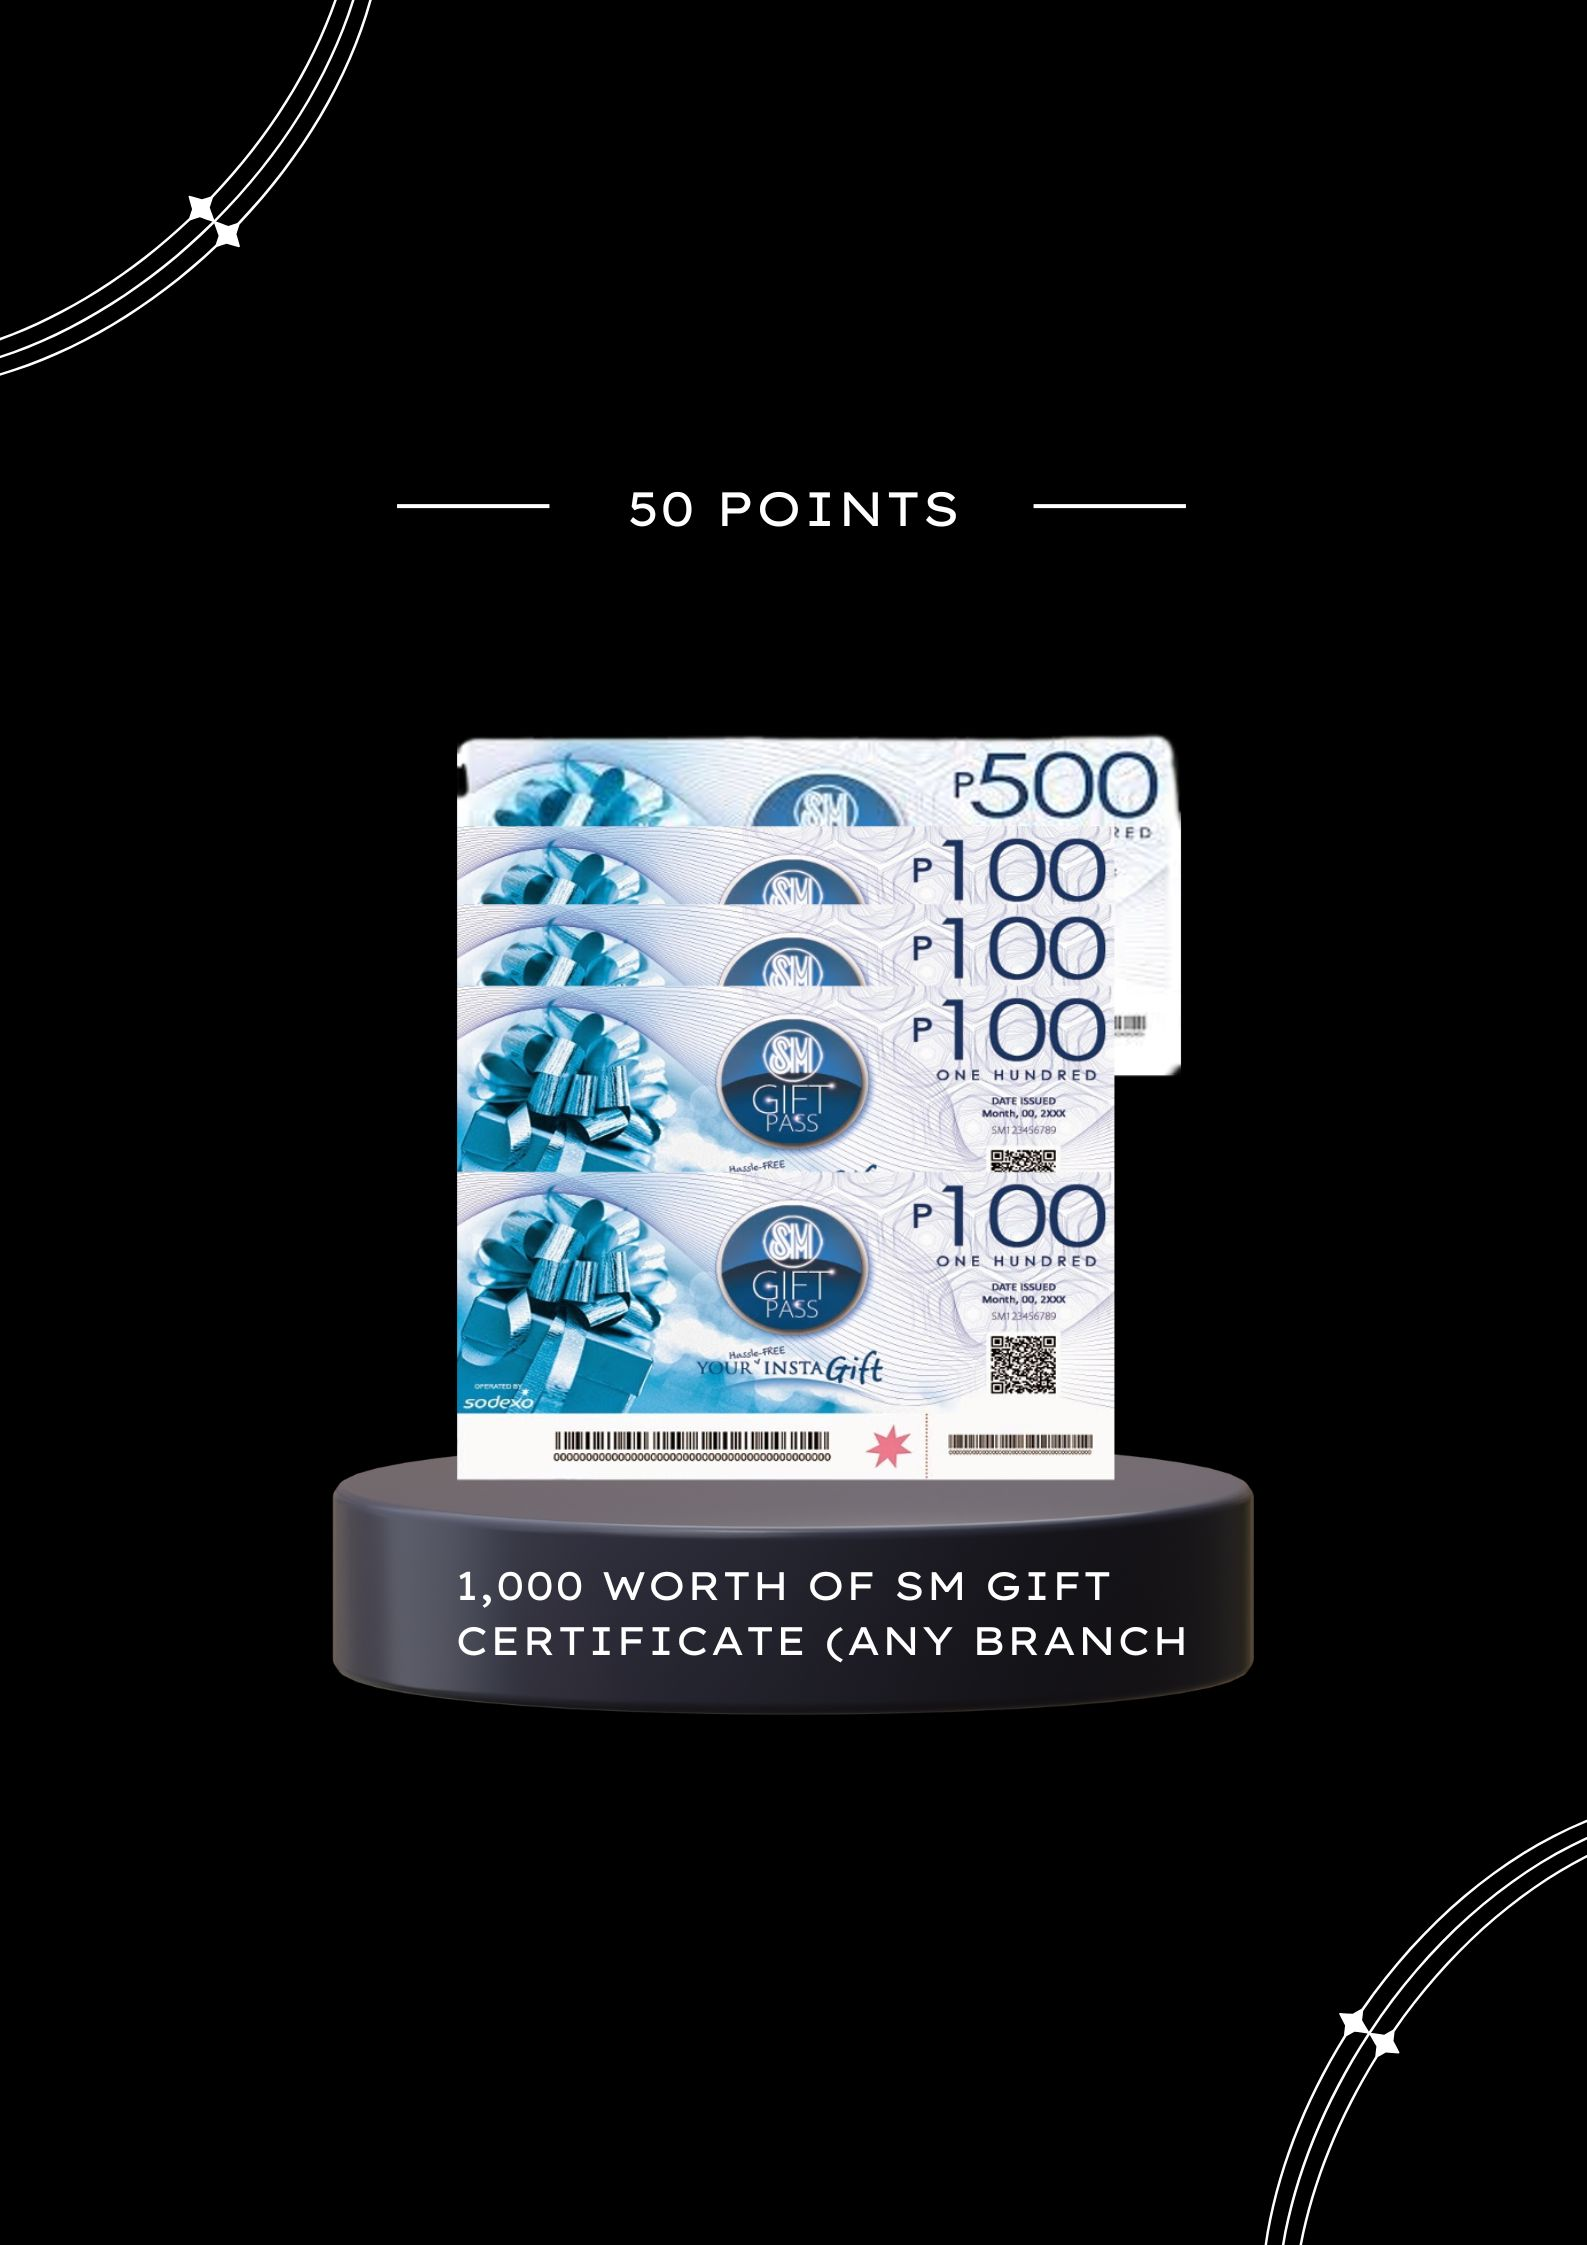
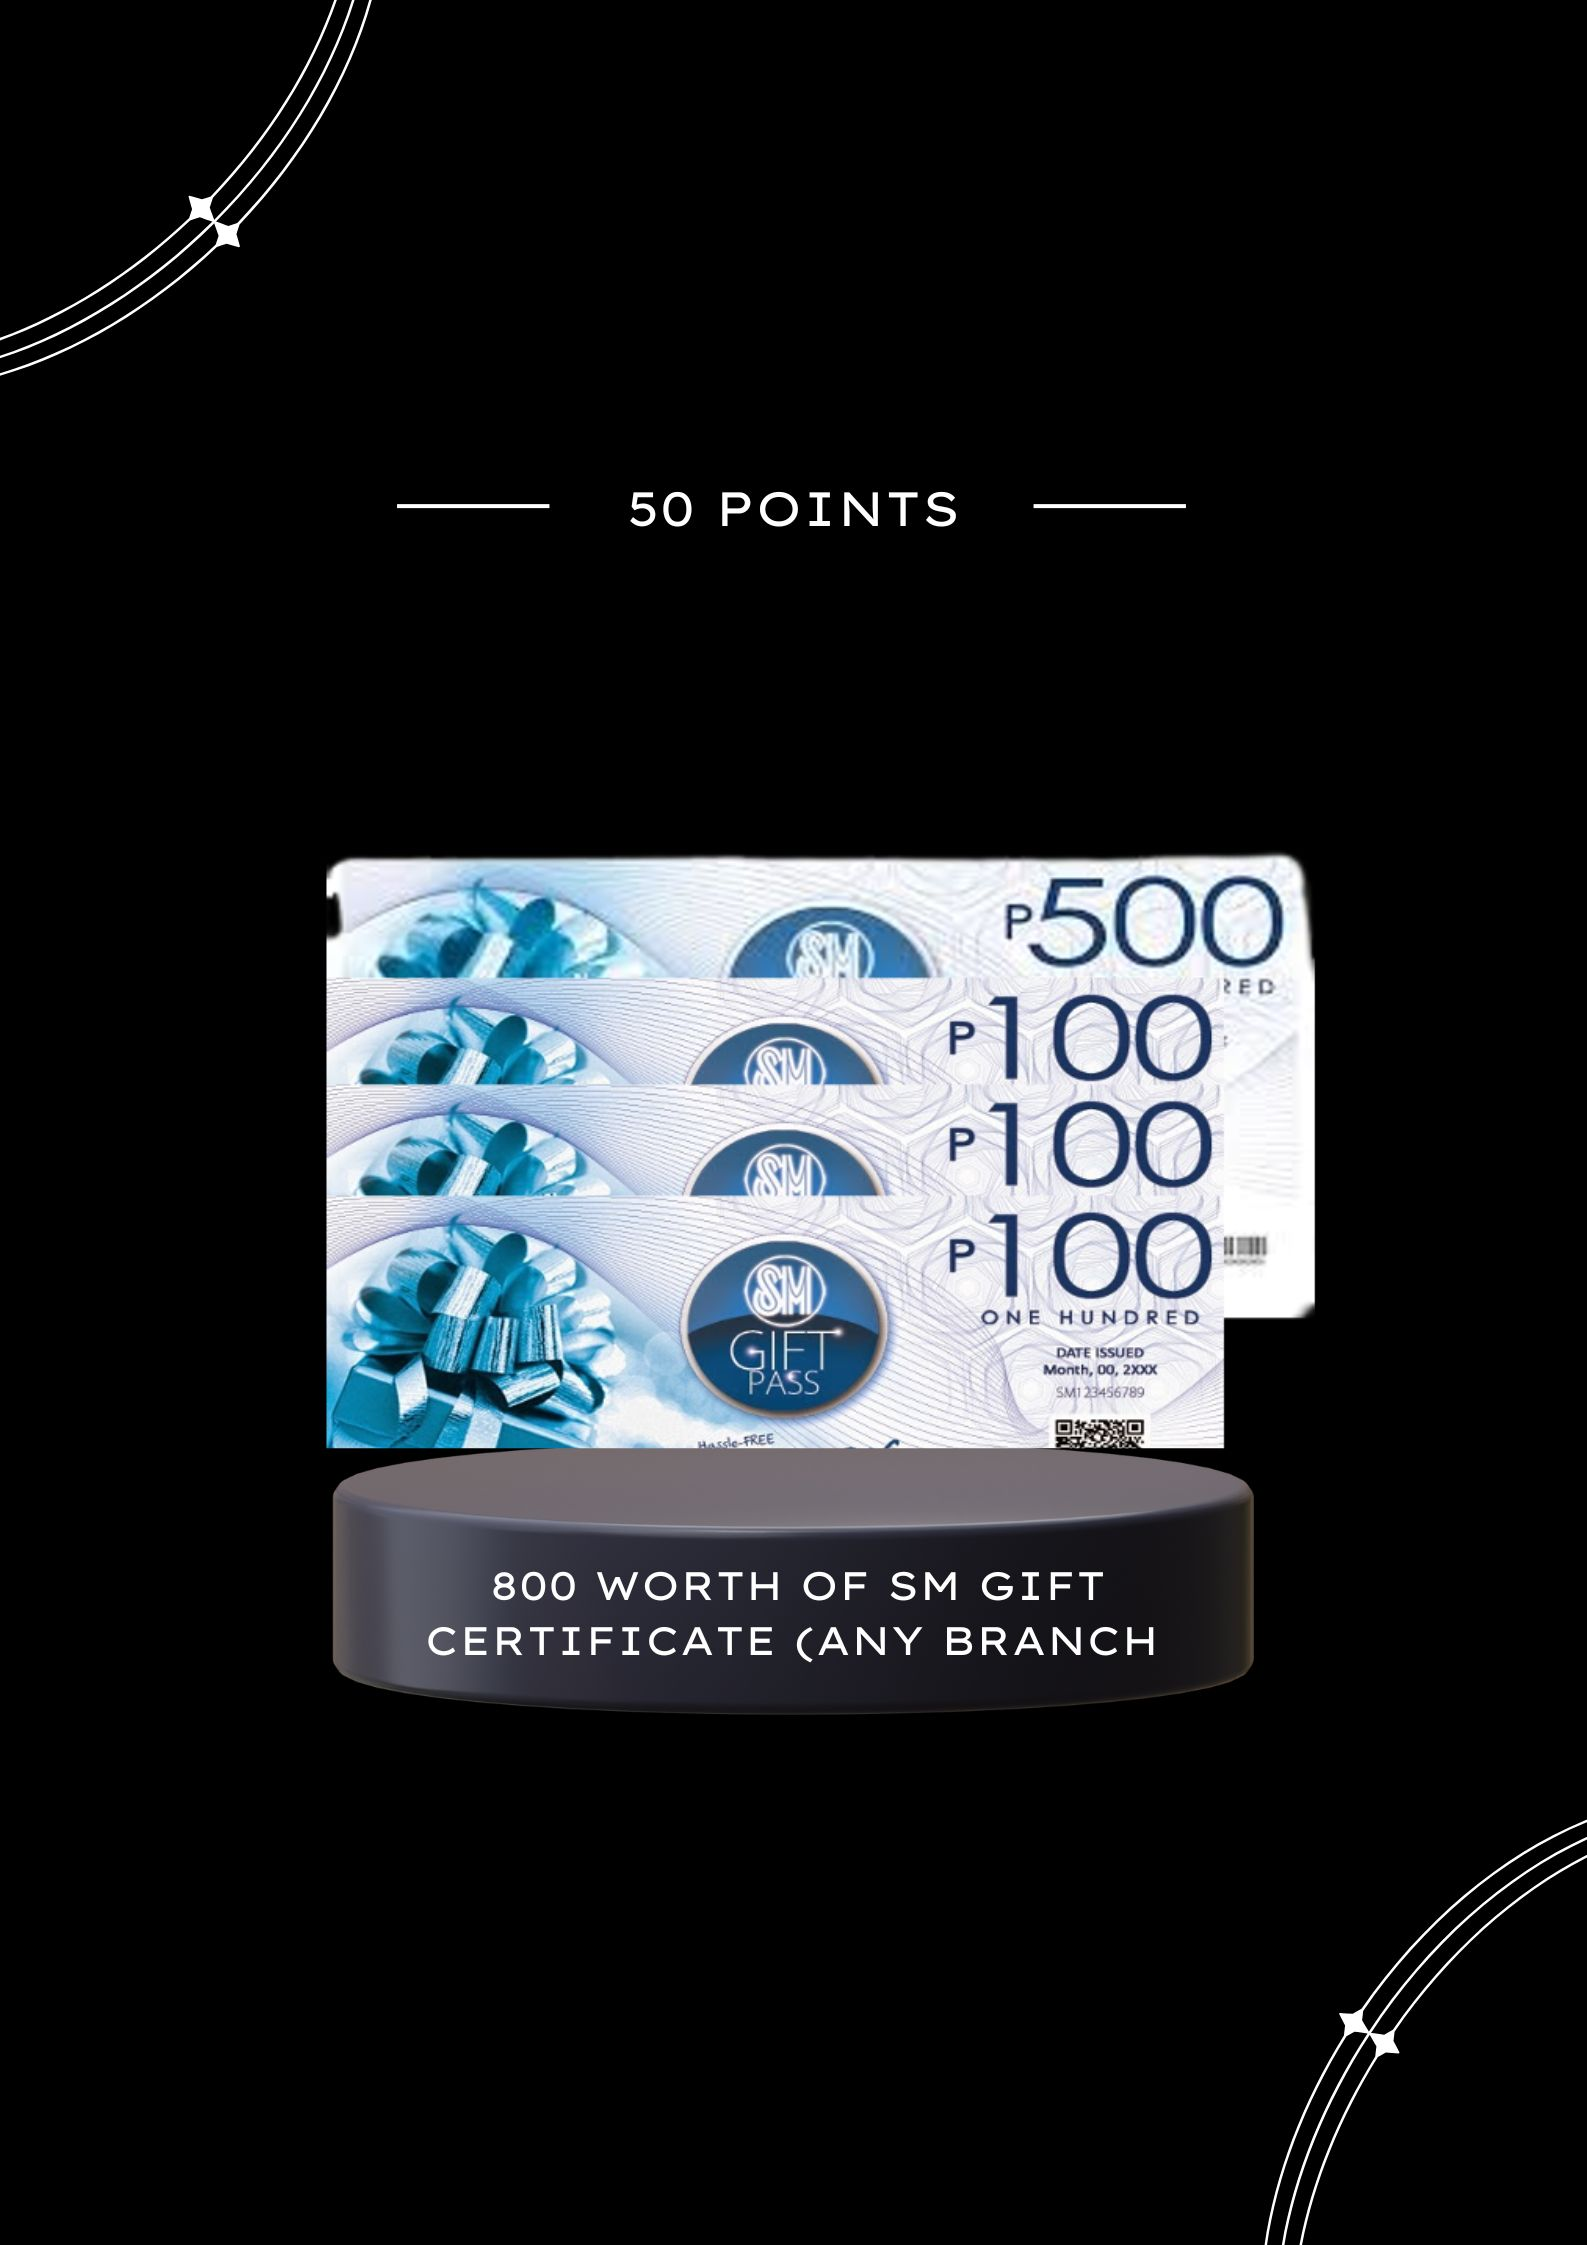
Update items

Changed region(s): [[0.1853, 0.3118, 0.8336, 0.7483]]

diff --git a/database/seeders/ItemSeeder.php b/database/seeders/ItemSeeder.php
@@ -31,9 +31,9 @@ class ItemSeeder extends Seeder
         ]);
 
         Item::create([
-            'name' => '1k Pesos SM Gift Certificate',
+            'name' => '800 Pesos SM Gift Certificate',
             'image' => 'items/3.jpg',
-            'description' => '1k Pesos SM Gift Certificate',
+            'description' => '800 Pesos SM Gift Certificate',
             'points' => 50,
             'quantity' => 9999,
             'status' => 'active'
